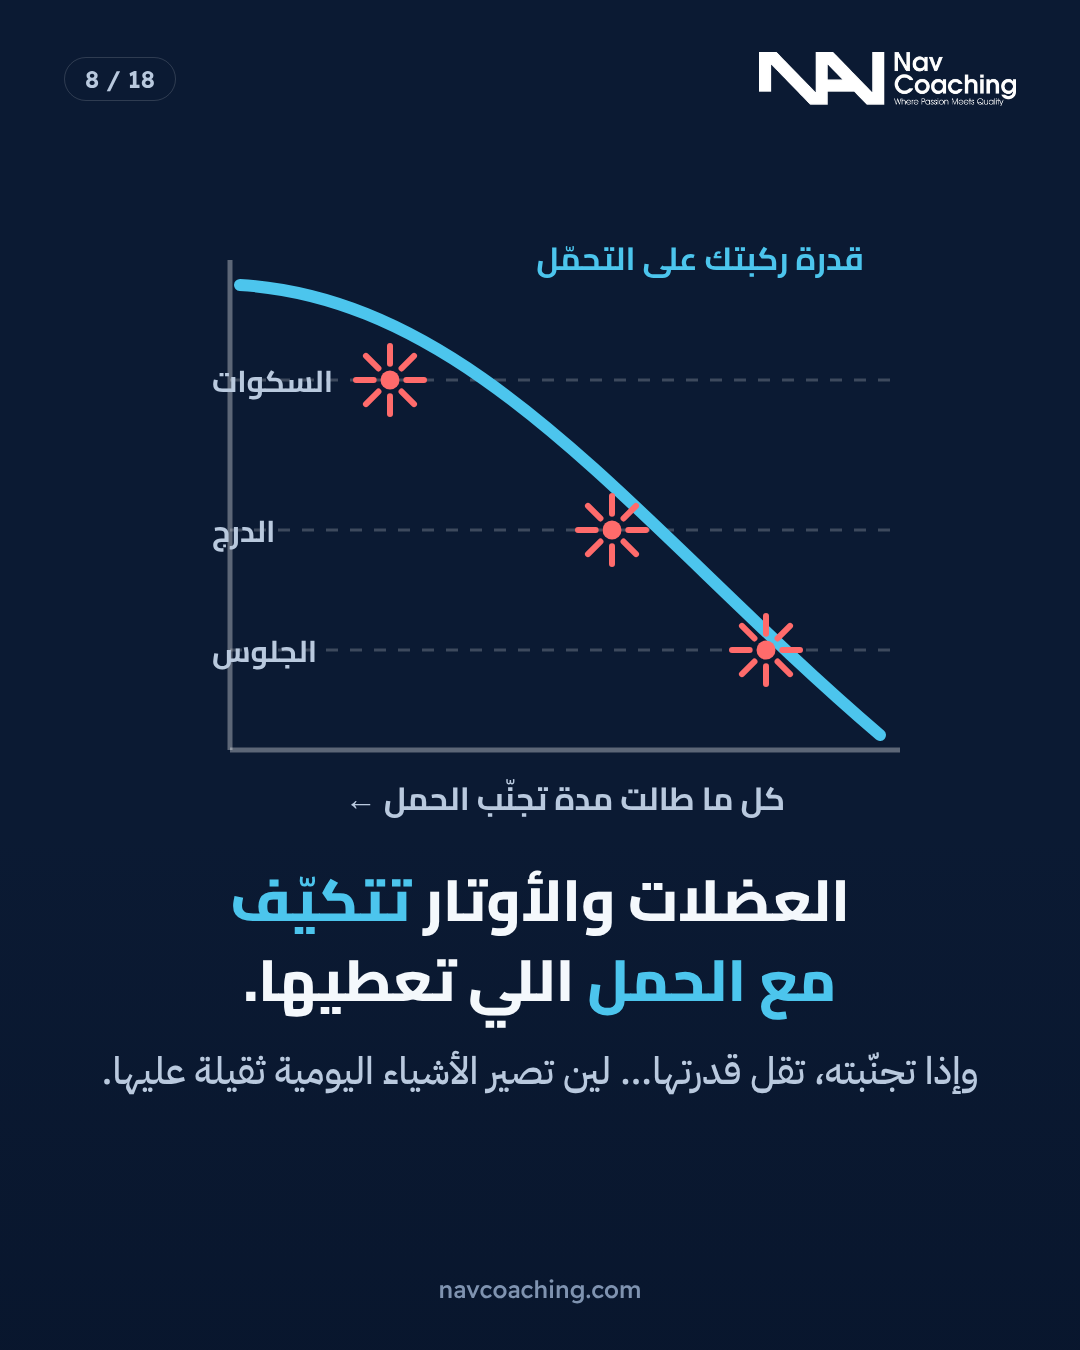
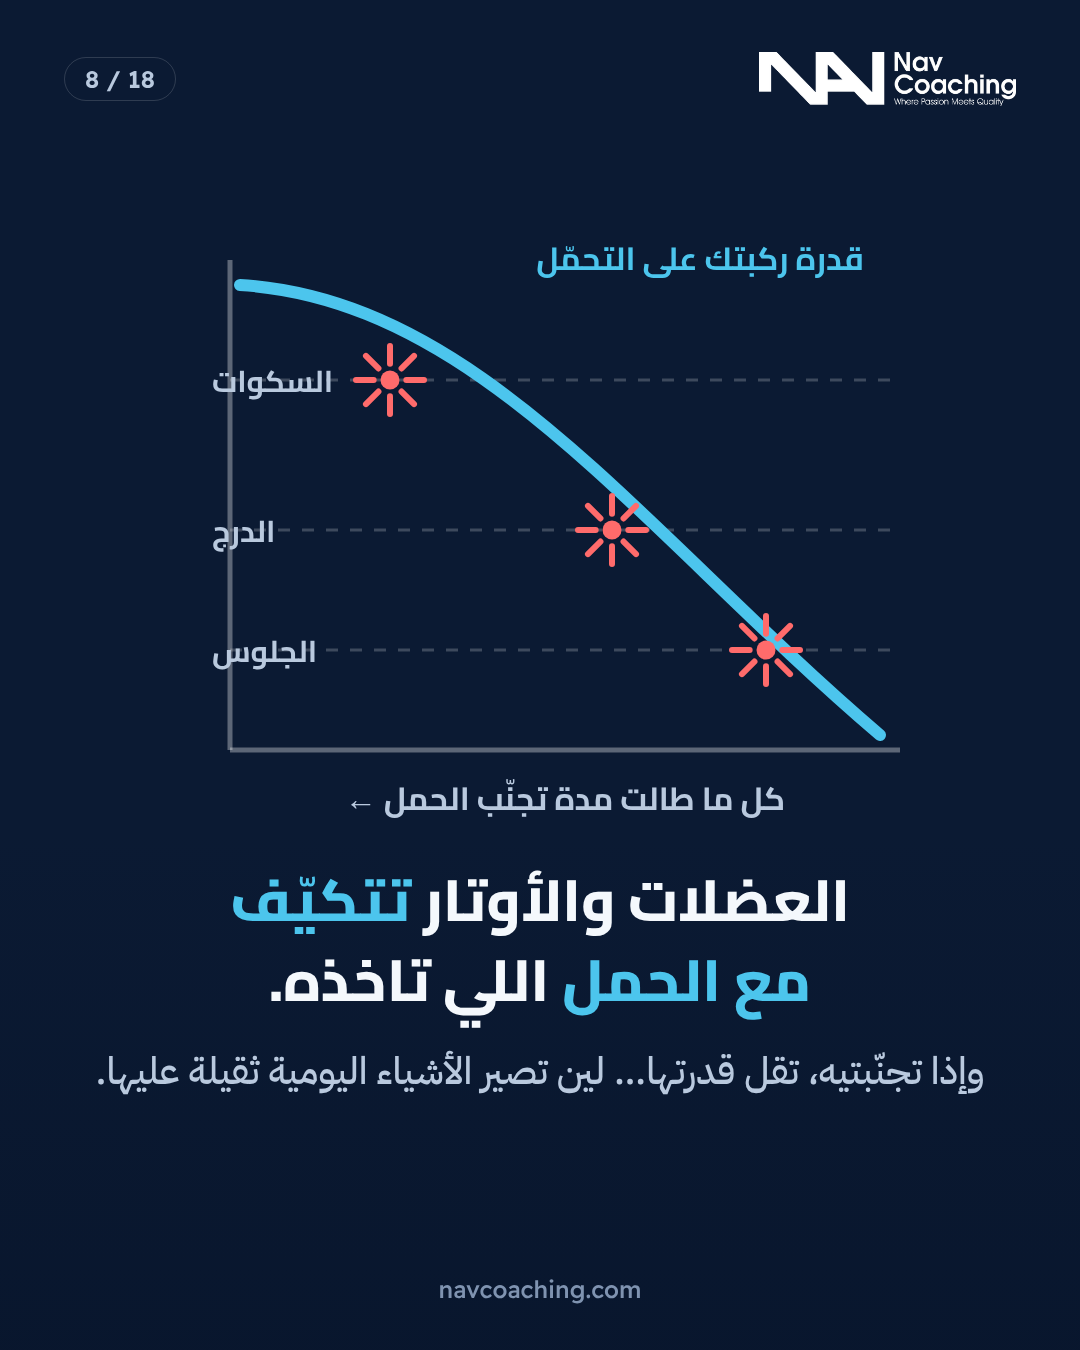
Knee carousel: character is now Sara (hijab), feminine copy throughout
Claude-Session: https://claude.ai/code/session_014K8VAaJoHdbEmLTmDkRNee

Changed region(s): [[0.0917, 0.6844, 0.9167, 0.8089]]

diff --git a/instagram/knee/slides.html b/instagram/knee/slides.html
@@ -55,11 +55,13 @@ function figure(o){
  (o.work||[]).forEach(i=>{const p=pts[i];const a=T(H),b=T(p.k);const mx=(a.x+b.x)/2,my=(a.y+b.y)/2,dx=(b.x-a.x)*.32,dy2=(b.y-a.y)*.32;
    g+=`<line x1="${mx-dx}" y1="${my-dy2}" x2="${mx+dx}" y2="${my+dy2}" stroke="#4cc5ed" stroke-width="${16*s}" stroke-linecap="round"/>`});
  limbArm(1,'#f4f8fc');
- const hc=T(head);g+=`<circle cx="${hc.x}" cy="${hc.y}" r="${L.hr*s}" fill="#f4f8fc"/>`;
+ const hc=T(head), nk=T(neck);
+ g+=`<ellipse cx="${nk.x}" cy="${nk.y+8*s}" rx="${50*s}" ry="${30*s}" transform="rotate(${o.t} ${nk.x} ${nk.y+8*s})" fill="#5b7fd1"/><circle cx="${hc.x-2*s}" cy="${hc.y}" r="${(L.hr+11)*s}" fill="#5b7fd1"/>`;
+ g+=`<ellipse cx="${hc.x+12*s}" cy="${hc.y+4*s}" rx="${L.hr*0.7*s}" ry="${L.hr*0.8*s}" fill="#f4f8fc"/>`;
  // face looks forward (right)
- const ex=hc.x+14*s, ey=hc.y-8*s;
+ const ex=hc.x+6*s, ey=hc.y-4*s;
  g+=`<circle cx="${ex}" cy="${ey}" r="${5*s}" fill="#0b1a33"/><circle cx="${ex+20*s}" cy="${ey}" r="${5*s}" fill="#0b1a33"/>`;
- const my=hc.y+16*s, mx=hc.x+24*s;
+ const my=hc.y+20*s, mx=hc.x+16*s;
  if(o.mood==='sad') g+=`<path d="M${mx-12*s} ${my+6*s} q${12*s} ${-12*s} ${24*s} 0" stroke="#0b1a33" stroke-width="${4.5*s}" fill="none" stroke-linecap="round"/>`;
  else if(o.mood==='happy') g+=`<path d="M${mx-12*s} ${my-4*s} q${12*s} ${12*s} ${24*s} 0" stroke="#0b1a33" stroke-width="${4.5*s}" fill="none" stroke-linecap="round"/>`;
  else g+=`<line x1="${mx-10*s}" y1="${my}" x2="${mx+12*s}" y2="${my}" stroke="#0b1a33" stroke-width="${4.5*s}" stroke-linecap="round"/>`;
@@ -103,16 +105,16 @@ const ART={
      names[i].split('<br>').forEach((t,j,a)=>{g+=label(x,y-20-(a.length-1-j)*30,t,'#f4f8fc',24)})}
    return g},
  step1:()=>{const f=figure({x:520,floor:F,t:4,legs:[[-38,-92],[80,0]],arms:[[120,200],[130,215]],work:[1],mood:'flat',sweat:1});
-   const by=f.head.y+30;return floorLine(F,160,920)+`<line x1="300" y1="80" x2="300" y2="${F}" stroke="#40597f" stroke-width="16"/><line x1="790" y1="80" x2="790" y2="${F}" stroke="#40597f" stroke-width="16"/><line x1="250" y1="${by}" x2="840" y2="${by}" stroke="#b9c9de" stroke-width="16" stroke-linecap="round"/><rect x="270" y="${by-12}" width="60" height="24" rx="6" fill="#4cc5ed"/><rect x="760" y="${by-12}" width="60" height="24" rx="6" fill="#4cc5ed"/>`+f.svg+lock(870,by-30)+`<line x1="700" y1="${by+150}" x2="700" y2="${by+40}" stroke="#4cc5ed" stroke-width="7"/><path d="M682 ${by+58} L700 ${by+28} L718 ${by+58}z" fill="#4cc5ed"/>`+label(700,by+200,'ادفع','#4cc5ed',32)},
+   const by=f.head.y+30;return floorLine(F,160,920)+`<line x1="300" y1="80" x2="300" y2="${F}" stroke="#40597f" stroke-width="16"/><line x1="790" y1="80" x2="790" y2="${F}" stroke="#40597f" stroke-width="16"/><line x1="250" y1="${by}" x2="840" y2="${by}" stroke="#b9c9de" stroke-width="16" stroke-linecap="round"/><rect x="270" y="${by-12}" width="60" height="24" rx="6" fill="#4cc5ed"/><rect x="760" y="${by-12}" width="60" height="24" rx="6" fill="#4cc5ed"/>`+f.svg+lock(870,by-30)+`<line x1="700" y1="${by+150}" x2="700" y2="${by+40}" stroke="#4cc5ed" stroke-width="7"/><path d="M682 ${by+58} L700 ${by+28} L718 ${by+58}z" fill="#4cc5ed"/>`+label(700,by+200,'ادفعي','#4cc5ed',32)},
  step2:()=>{const f=figure({x:400,floor:F,t:0,legs:[[88,0],[92,0]],arms:[[30,70],[40,80]],work:[1],mood:'flat',sweat:1});
-   return floorLine(F,240,900)+`<line x1="${f.H.x-62}" y1="60" x2="${f.H.x-50}" y2="${F}" stroke="#40597f" stroke-width="16"/>`+f.svg+label(760,300,'اثبت','#4cc5ed',40)},
+   return floorLine(F,240,900)+`<line x1="${f.H.x-62}" y1="60" x2="${f.H.x-50}" y2="${F}" stroke="#40597f" stroke-width="16"/>`+f.svg+label(760,300,'اثبتي','#4cc5ed',40)},
  step3:()=>{const f=figure({x:540,floor:F,t:36,legs:[[78,-26],[82,-24]],arms:[[80,88],[86,92]],work:[1],mood:'flat',sweat:1});
    return floorLine(F)+box(f.H.x-200,F-150,150,150)+f.svg+arrowDown(900,150,420,'3–5 ثواني')},
  step4:()=>{const f=figure({x:540,floor:F,t:24,legs:[[52,-18],[56,-18]],arms:[[78,86],[84,92]],work:[1],mood:'happy'});
    return floorLine(F)+box(f.H.x-190,F-220,170,220,'صندوق عالي')+f.svg},
  step5:()=>{const f=figure({x:560,floor:F,t:44,legs:[[100,-40],[104,-38]],arms:[[82,90],[88,96]],work:[1],mood:'happy'});
    return floorLine(F)+f.svg+arrowDown(300,170,500,'أعمق')+label(880,170,'بنفس البطء','#b9c9de',34)},
- step6:()=>{const f=figure({x:480,floor:F,t:10,legs:[[-30,-20],[70,-6]],arms:[[60,150],[-30,-40]],work:[1],mood:'happy'});
+ step6:()=>{const f=figure({x:480,floor:F,t:10,legs:[[-30,-20],[70,-6]],arms:[[60,150],[-30,-40]],work:[1],mood:'happy',s:1.1});
    return floorLine(F,160,920)+box(f.ankle[1].x-60,F-110,240,110)+`<path transform="translate(0,-110)" d="M0 0"/>`+f.svg+[0,1,2].map(i=>`<line x1="190" y1="${280+i*60}" x2="${i==1?300:270}" y2="${280+i*60}" stroke="#4cc5ed" stroke-width="8" stroke-linecap="round"/>`).join('')},
  step7:()=>{const f=figure({x:520,floor:F,t:8,legs:[[48,-50],[54,-46]],arms:[[-40,-30],[-30,-20]],work:[1],mood:'happy',lift:90,s:1});
    return `<ellipse cx="560" cy="${F}" rx="150" ry="18" fill="#ffffff22"/>`+[0,1,2].map(i=>`<line x1="${520+i*40}" y1="${F-90}" x2="${520+i*40}" y2="${F-40}" stroke="#4cc5ed" stroke-width="7" stroke-linecap="round"/>`).join('')+f.svg+`<polyline points="800,560 860,470 800,380 860,290" fill="none" stroke="#4cc5ed" stroke-width="8" stroke-linecap="round" stroke-linejoin="round"/><path d="M842 270 L880 262 L866 300z" fill="#4cc5ed"/>`},
@@ -122,21 +124,21 @@ function lock(x,y){return `<rect x="${x-26}" y="${y}" width="52" height="44" rx=
 
 const LOGO='<img src="../../brand/logo-white.webp">';
 const S=[
- ['squatPain','ركبة فهد صارت توجعه في السكوات…<br><em>فوقّف السكوات.</em>'],
- ['lungePain','بعدها صارت توجعه في الطعنات والليق برس…<br><em>فوقّفهم بعد.</em>'],
- ['sitPain','بعد شهر، صارت توجعه<br><em>إذا طوّل وهو جالس.</em>'],
- ['confused','فهد محتار: يرتاح أكثر،<br>بس الألم <em>يطلع في مواقف أكثر.</em>'],
- ['stairs','وبعد كم أسبوع، صار <em>النزول من الدرج</em><br>يزعجه… <em>والطلوع</em> بعد.'],
- ['save','تحس إنها قصتك؟<br><em>احفظ البوست</em> عشان يكون الحل عندك.'],
- ['gauge','ركبته <em>ما تضررت أكثر</em>… صارت أحسس.','كل ما خفّف الحمل عليها، صار جسمه يتعامل مع الحركات العادية كأنها خطر.'],
- ['chart','العضلات والأوتار <em>تتكيّف مع الحمل</em> اللي تعطيها.','وإذا تجنّبته، تقل قدرتها… لين تصير الأشياء اليومية ثقيلة عليها.'],
+ ['squatPain','ركبة سارة صارت توجعها في السكوات…<br><em>فوقّفت السكوات.</em>'],
+ ['lungePain','بعدها صارت توجعها في الطعنات والليق برس…<br><em>فوقّفتهم بعد.</em>'],
+ ['sitPain','بعد شهر، صارت توجعها<br><em>إذا طوّلت وهي جالسة.</em>'],
+ ['confused','سارة محتارة: ترتاح أكثر،<br>بس الألم <em>يطلع في مواقف أكثر.</em>'],
+ ['stairs','وبعد كم أسبوع، صار <em>النزول من الدرج</em><br>يزعجها… <em>والطلوع</em> بعد.'],
+ ['save','تحسين إنها قصتك؟<br><em>احفظي البوست</em> عشان يكون الحل عندك.'],
+ ['gauge','ركبتها <em>ما تضررت أكثر</em>… صارت أحسس.','كل ما خفّفت الحمل عليها، صار جسمها يتعامل مع الحركات العادية كأنها خطر.'],
+ ['chart','العضلات والأوتار <em>تتكيّف مع الحمل</em> اللي تاخذه.','وإذا تجنّبتيه، تقل قدرتها… لين تصير الأشياء اليومية ثقيلة عليها.'],
  ['ladder','الحل مو راحة أكثر…<br><em>رجّع الحمل درجة درجة.</em>'],
- ['step1','الخطوة 1: <em>ثبات بالدفع</em>','ادفع بقوة في شي ما يتحرك، مثل طعنة تدفع فيها بار مقفول.','4–5 مرات · 30–45 ثانية'],
- ['step2','الخطوة 2: <em>ثبات بالمقاومة</em>','اثبت في وضعية والوزن يحاول ينزّلك، مثل الجلوس على الجدار.','4–5 مرات · 30–45 ثانية'],
- ['step3','الخطوة 3: <em>نزول بطيء</em>','انزل ببطء وتحكّم، واطلع بالطريقة اللي تريحك.','النزول 3–5 ثواني'],
+ ['step1','الخطوة 1: <em>ثبات بالدفع</em>','ادفعي بقوة في شي ما يتحرك، مثل طعنة تدفعين فيها بار مقفول.','4–5 مرات · 30–45 ثانية'],
+ ['step2','الخطوة 2: <em>ثبات بالمقاومة</em>','اثبتي في وضعية والوزن يحاول ينزّلك، مثل الجلوس على الجدار.','4–5 مرات · 30–45 ثانية'],
+ ['step3','الخطوة 3: <em>نزول بطيء</em>','انزلي ببطء وتحكّم، واطلعي بالطريقة اللي تريحك.','النزول 3–5 ثواني'],
  ['step4','الخطوة 4: <em>مدى قصير</em>','عدّات كاملة، بس لعمق مريح، مثل سكوات على صندوق عالي.'],
- ['step5','الخطوة 5: <em>زد العمق</em>','شوي شوي انزل أعمق، وخلّك على نفس البطء.'],
- ['step6','الخطوة 6: <em>أضف سرعة</em>','لما يصير البطء سهل، ابدأ تتحرك أسرع.'],
+ ['step5','الخطوة 5: <em>زيدي العمق</em>','شوي شوي انزلي أعمق، وخلّيك على نفس البطء.'],
+ ['step6','الخطوة 6: <em>أضيفي سرعة</em>','لما يصير البطء سهل، ابدئي تتحركين أسرع.'],
  ['step7','الخطوة 7: <em>قفز وتغيير اتجاه</em>','قفزات ونطّات وتغيير اتجاه، عشان ترجع ركبتك جاهزة لحياتك.'],
 ];
 let html='';const N=S.length+2;
@@ -145,17 +147,17 @@ S.forEach((d,i)=>{html+=`<section class="s"><div class="top">${LOGO}<span class=
 <div class="tx"><h1>${d[1]}</h1>${d[2]?`<p>${d[2]}</p>`:''}${d[3]?`<span class="dose">${d[3]}</span>`:''}</div>
 <div class="foot">navcoaching.com</div></section>`});
 html+=`<section class="s"><div class="top">${LOGO}<span class="n">${N-1} / ${N}</span></div>
-<div class="big" style="top:170px"><h1 style="font-size:72px">متى تنتقل <em>للخطوة اللي بعدها؟</em></h1></div>
+<div class="big" style="top:170px"><h1 style="font-size:72px">متى تنتقلين <em>للخطوة اللي بعدها؟</em></h1></div>
 <div class="list" style="top:400px"><div class="r"><i>1</i><span>الألم أثناء التمرين <b style="color:#4cc5ed">3 من 10 أو أقل</b></span></div>
 <div class="r"><i>2</i><span>يهدأ خلال <b style="color:#4cc5ed">24 ساعة</b></span></div>
 <div class="r"><i>3</i><span>ما يزيد صباح اليوم الثاني</span></div>
-<div class="r"><i>4</i><span>كمّل كل خطوة أسبوع إلى أسبوعين قبل ما تنتقل</span></div></div>
-<div class="warn"><b>راجع مختص قبل تبدأ</b> إذا الألم جا بعد إصابة أو سقوط، أو فيه تورّم، أو الركبة تقفل أو تخونك، أو الألم يصحّيك من النوم.</div>
+<div class="r"><i>4</i><span>كمّلي كل خطوة أسبوع إلى أسبوعين قبل ما تنتقلين</span></div></div>
+<div class="warn"><b>راجعي مختص قبل تبدئين</b> إذا الألم جا بعد إصابة أو سقوط، أو فيه تورّم، أو الركبة تقفل أو تخونك، أو الألم يصحّيك من النوم.</div>
 <div class="foot">navcoaching.com</div></section>`;
 html+=`<section class="s"><div class="top">${LOGO}<span class="n">${N} / ${N}</span></div>
 <div class="big"><h1>ركبتك تحتاج<br><em>خطة تمشي معك؟</em></h1>
 <p style="margin-top:40px;font:500 40px/1.65 'IBM Plex Sans Arabic';color:#b9c9de">نبني لك برنامج يرجّع الحمل لركبتك بالتدريج، ونعدّله أسبوعيًا حسب إحساسك وتقدّمك.</p></div>
-<div class="cta"><b>ابدأ برنامجك ←</b><span>navcoaching.com</span></div>
-<div class="foot" style="color:#b9c9de">احفظ البوست · أرسله لأحد ركبته توجعه</div></section>`;
+<div class="cta"><b>ابدئي برنامجك ←</b><span>navcoaching.com</span></div>
+<div class="foot" style="color:#b9c9de">احفظي البوست · أرسليه لوحدة ركبتها توجعها</div></section>`;
 document.write(html);
 </script></body></html>
